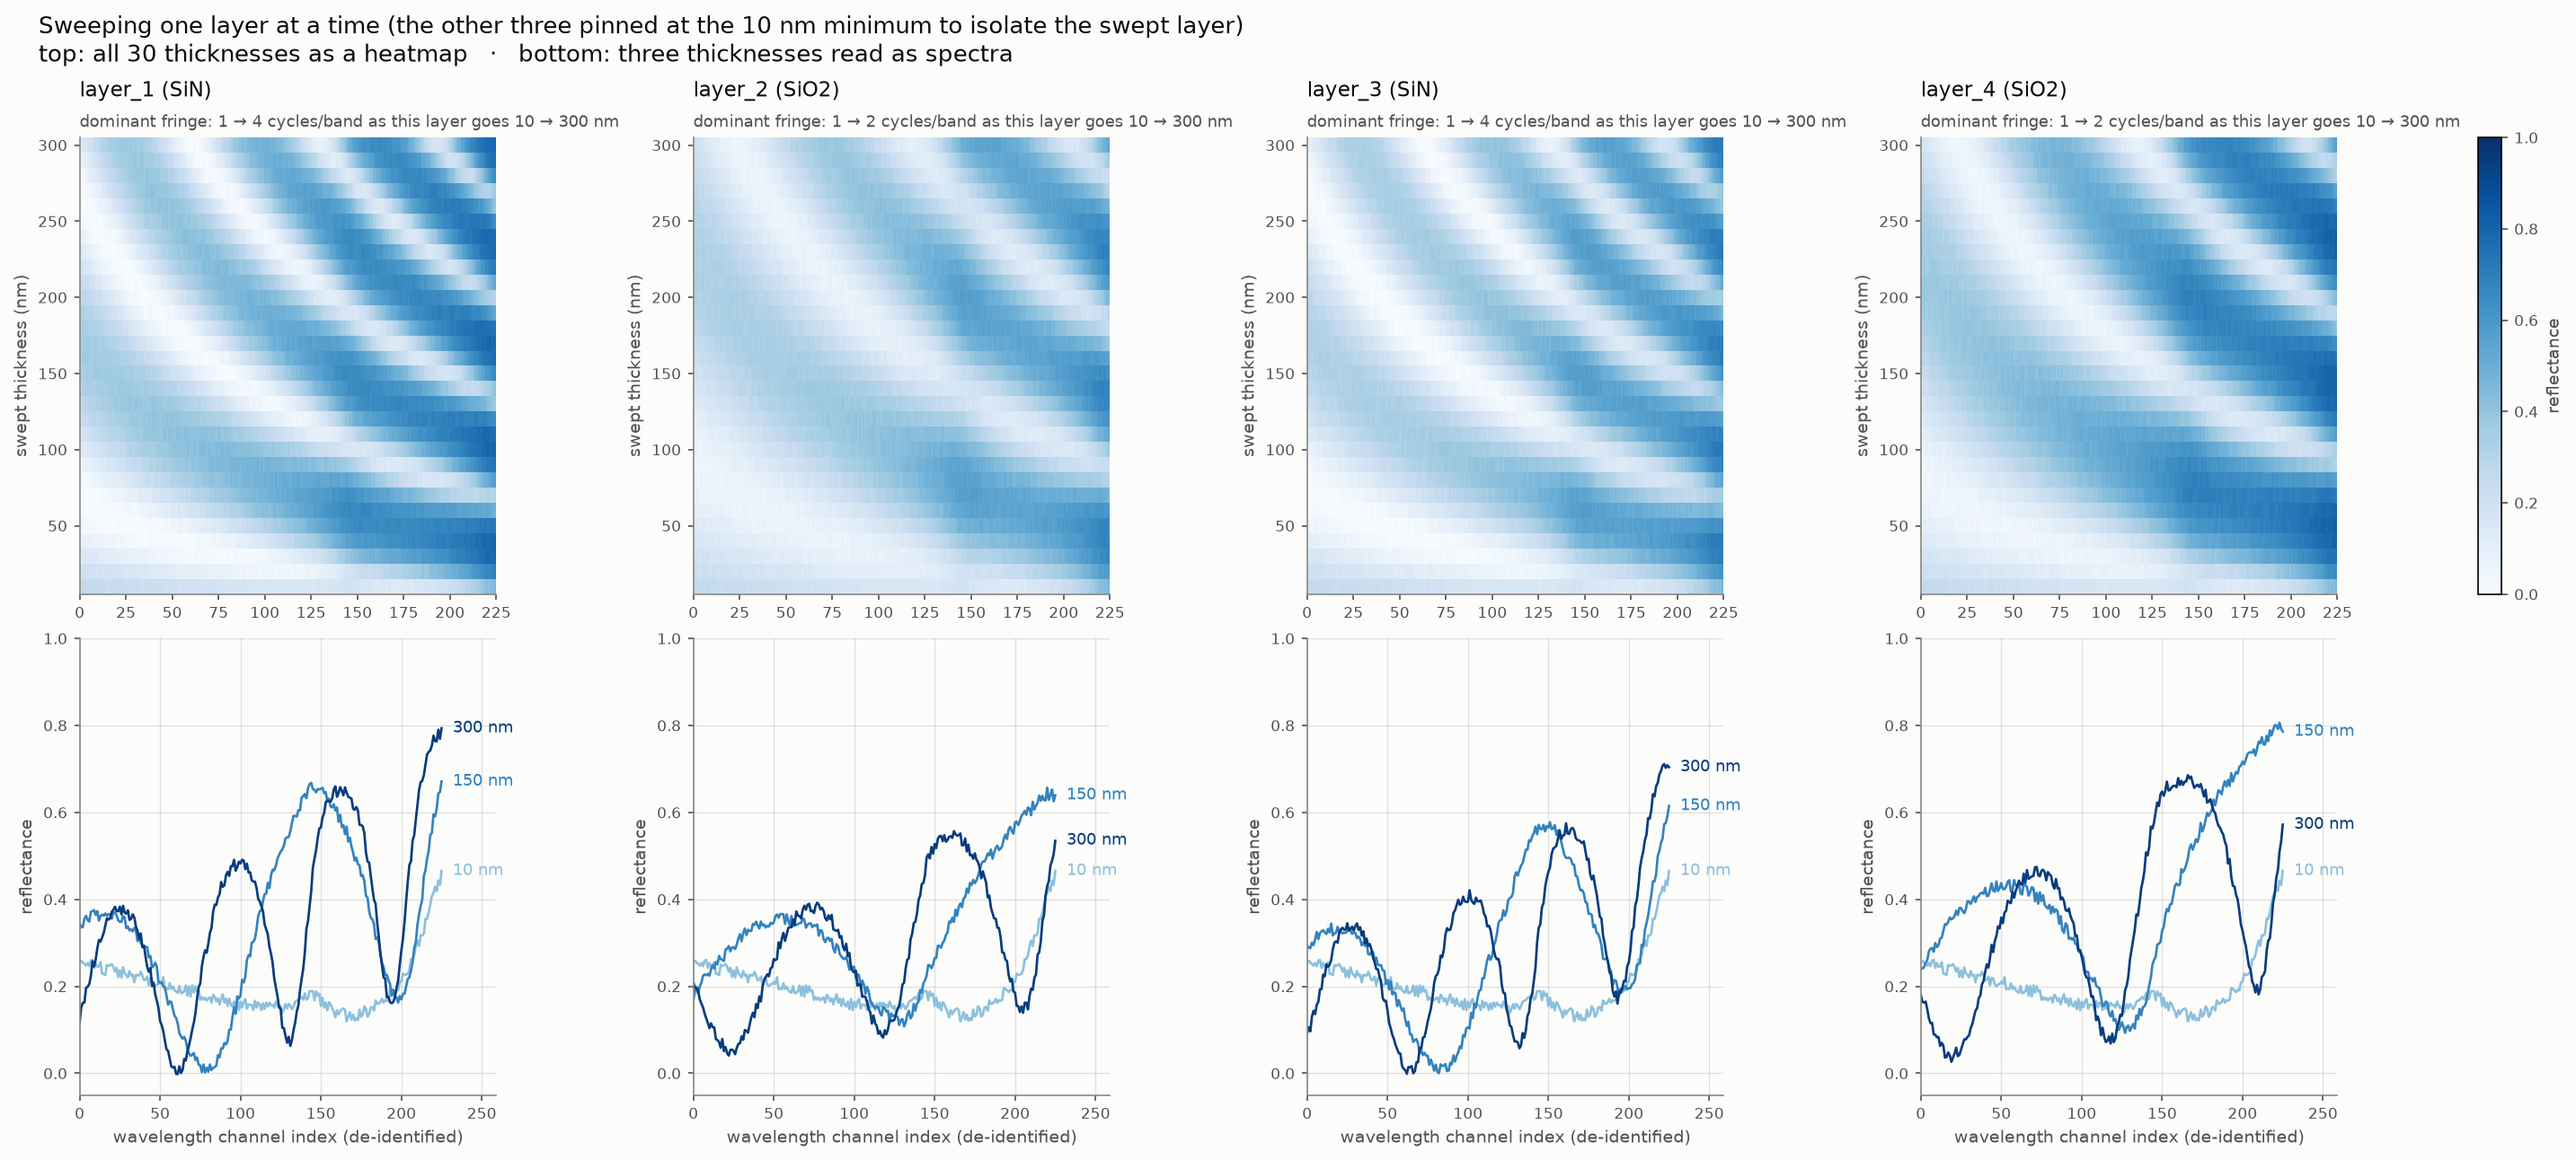
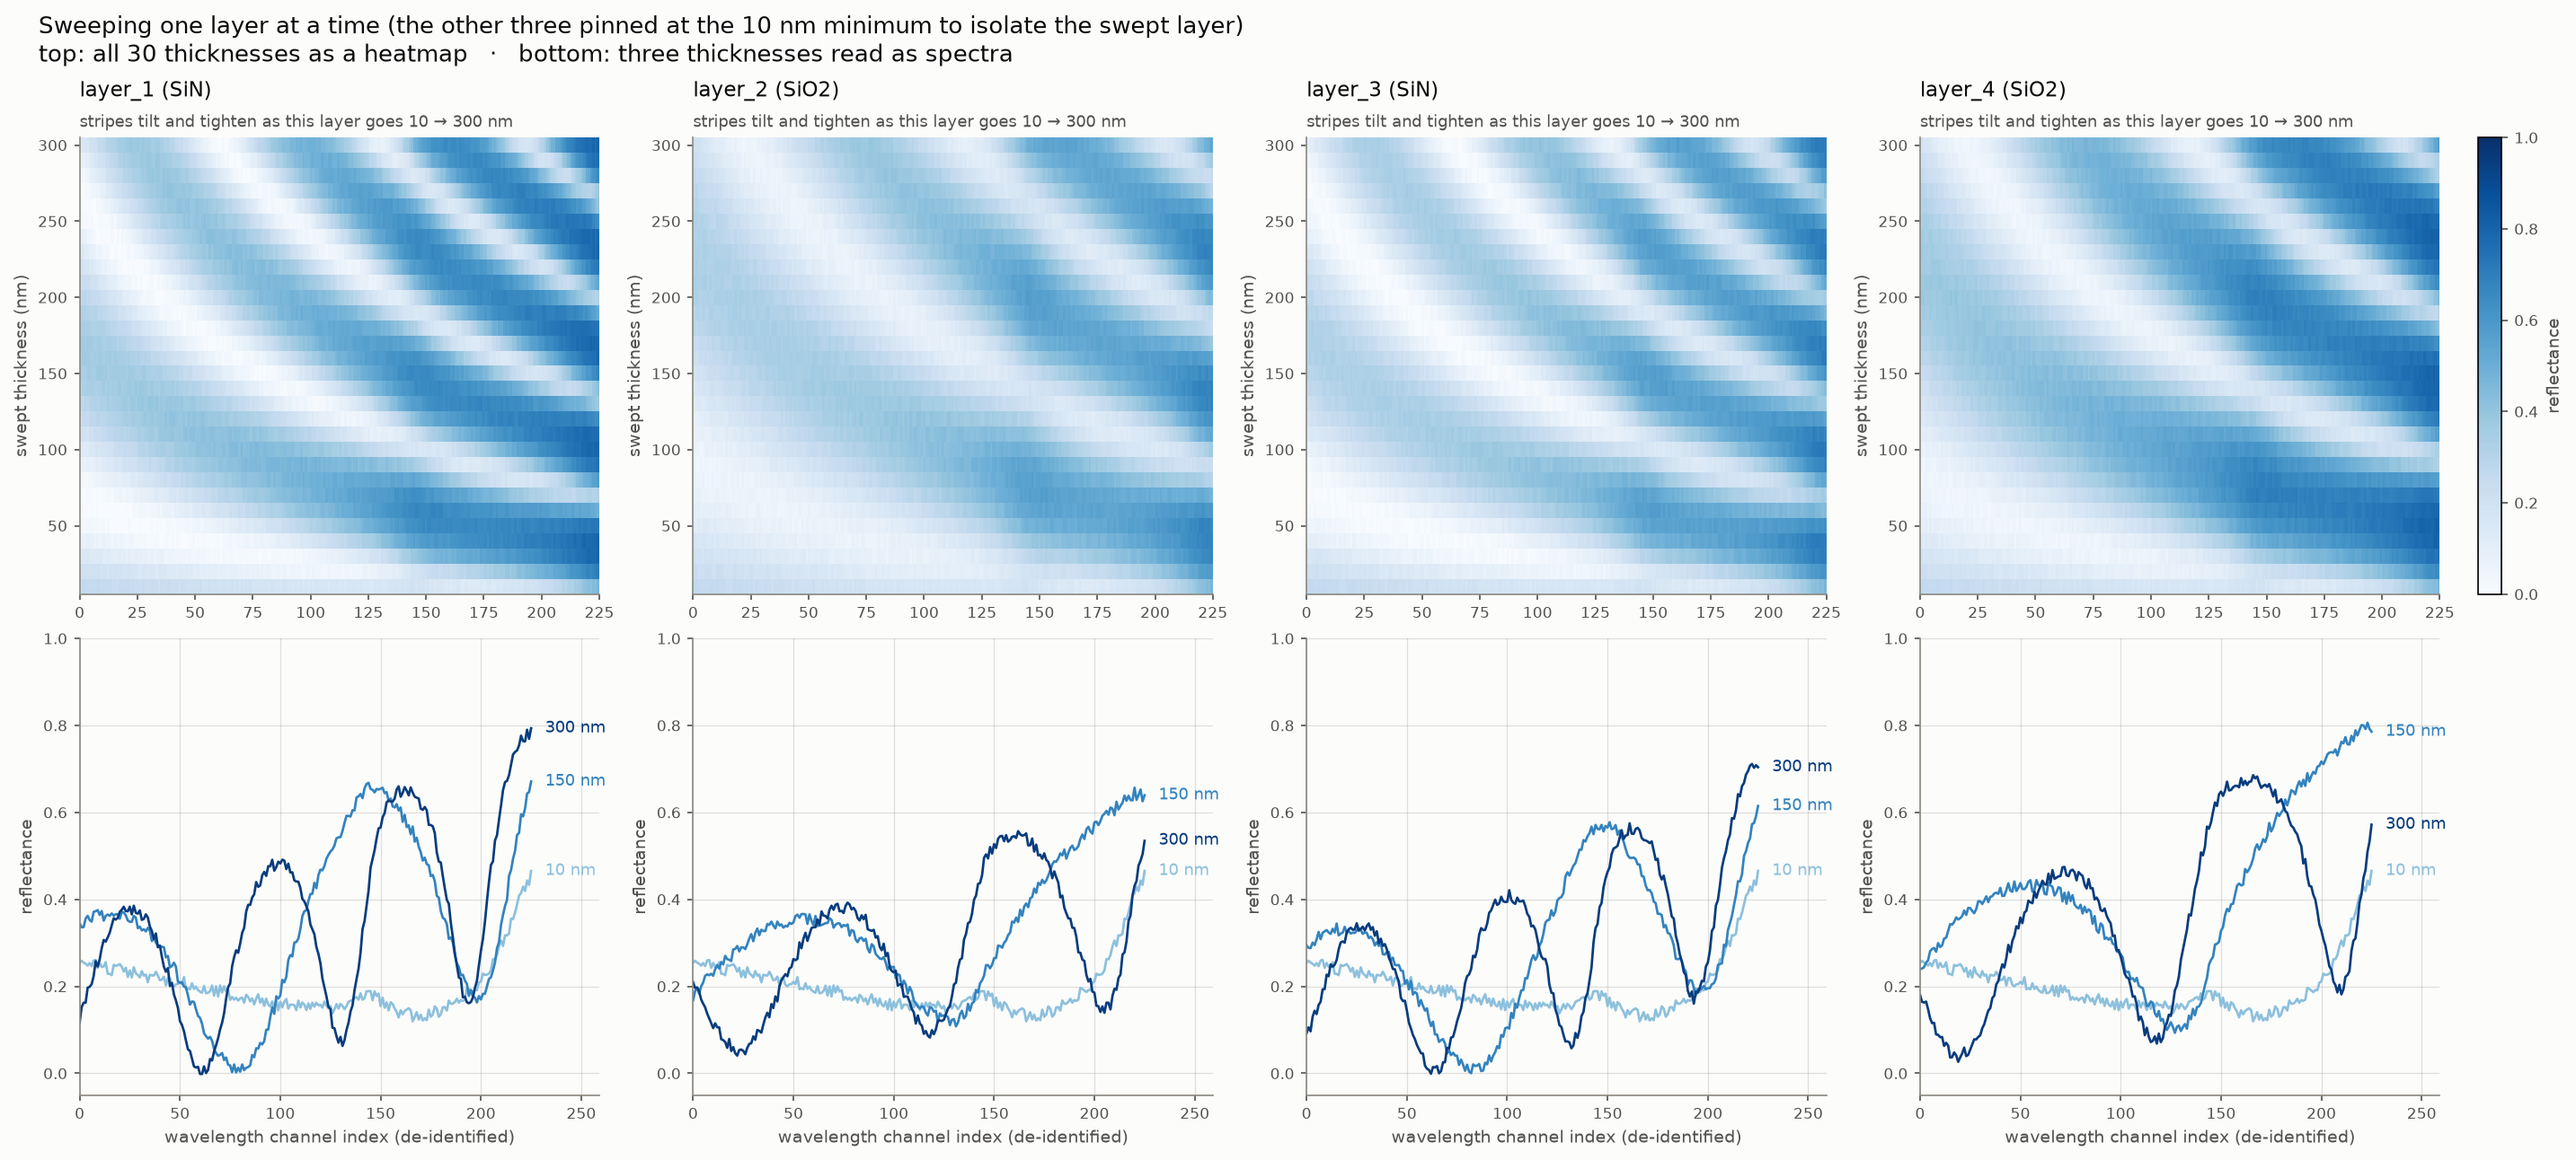
refactor: FFT 기반 분석을 전부 제거
scripts/eda.py 에서 np.fft 를 쓰는 코드와 그로부터 나온 수치·서술을 모두 뺐다.

제거 대상:
- figure_layer_sweep 의 지배 주파수 계산과 layer_N_freq_thin/thick 지표
  (fig1 패널 부제목도 정성 서술로 교체)
- measure_fringe_periods() 함수 전체와 fringe_period / fringe_cycles 지표
- eda_metrics.md 의 "fringe 조밀도" / "fringe 주기 분포" 표 두 개
- eda_notes.md §1 의 무늬 개수 표와 지표 비교 서술, §4(주기 분포) 전체
- CLAUDE.md 의 fringe 주기 분포 항목, SiN:SiO2 무늬 개수 비 항목
- README §2.3 의 해당 표 행 두 개와 지표 3종 언급

두께↑ → fringe 조밀은 fig1 히트맵의 정성 확인으로만 남긴다. SiN 이 SiO2 보다
무늬가 촘촘하다는 것도 굴절률 방향성 확인용 정성 서술로 유지.

주의 — Level 1 "다중 스케일 수용영역"의 정량 근거(주기 p95 = 226채널)가 함께
사라졌다. CLAUDE.md 모델 스펙의 다중 스케일 문구는 원래 있던 설계 지침이라
그대로 두었으나, 지금은 수치 근거 없이 정성 판단에 기대고 있다.

DoD: pytest 15 passed, ruff clean, 그림 3종 재생성.

diff --git a/scripts/eda.py b/scripts/eda.py
@@ -130,8 +130,8 @@ def figure_layer_sweep(x: np.ndarray, index: GridIndex) -> dict[str, float]:
     스펙트럼 모양 자체를 읽을 수 있게 한다.
 
     나머지 세 층은 **최소값 10 nm**에 고정한다. 150 nm에 두면 고정 층들이 만드는 fringe가
-    스펙트럼을 지배해서 쓸린 층의 기여가 묻히고, 지배 주파수 지표가 두께에 반응하지 않는다.
-    최소값으로 눌러야 "이 층 하나가 무늬를 얼마나 조밀하게 만드는가"가 분리되어 보인다.
+    스펙트럼을 지배해서 쓸린 층의 기여가 묻힌다. 최소값으로 눌러야 "이 층 하나가 무늬를
+    얼마나 조밀하게 만드는가"가 분리되어 보인다.
     """
     base = 0  # 격자 인덱스 0 = 10 nm (나머지 층을 최소로 눌러 쓸린 층을 분리)
     cmap = plt.get_cmap("Blues")  # 단일 색상 계열, 밝음->어두움 (순차 = 크기)
@@ -147,20 +147,6 @@ def figure_layer_sweep(x: np.ndarray, index: GridIndex) -> dict[str, float]:
         idx = np.full((N_GRID, 4), base, dtype=np.int64)
         idx[:, layer] = np.arange(N_GRID)
         spectra = x[index.rows(idx)]
-
-        # fringe 조밀도: 채널축 FFT의 지배 주파수 (DC 제외).
-        #
-        # 주의 — "두께에 선형" 같은 정량 법칙은 이 데이터에서 깨끗하게 안 나온다.
-        # 파장축이 비식별화되어 있어 채널 간격이 균일한지 알 수 없고, 대역이 좁아
-        # 무늬가 겨우 2~7개만 들어가며(FFT bin 해상도가 그만큼 거칠다), 네 층이 겹쳐
-        # 만든 beat까지 섞인다. 게다가 모든 층이 10 nm면 스펙트럼 진폭이 노이즈 수준으로
-        # 내려가 극값·무게중심 지표가 노이즈를 센다. 그래서 여기서는 thin/thick 두 끝의
-        # 지배 주파수만 사실로 보고하고, 기울기·R² 같은 법칙 주장은 하지 않는다.
-        centered = spectra - spectra.mean(axis=1, keepdims=True)
-        power = np.abs(np.fft.rfft(centered, axis=1)) ** 2
-        dominant = np.argmax(power[:, 1:], axis=1) + 1
-        metrics[f"layer_{layer + 1}_freq_thin"] = float(dominant[0])
-        metrics[f"layer_{layer + 1}_freq_thick"] = float(dominant[-1])
 
         ax_top = axes[0, layer]
         images.append(
@@ -180,8 +166,7 @@ def figure_layer_sweep(x: np.ndarray, index: GridIndex) -> dict[str, float]:
         _title(
             ax_top,
             LAYER_LABELS[layer],
-            f"dominant fringe: {dominant[0]:.0f} → {dominant[-1]:.0f} cycles/band "
-            f"as this layer goes 10 → 300 nm",
+            "stripes tilt and tighten as this layer goes 10 → 300 nm",
         )
         ax_top.set_ylabel("swept thickness (nm)", fontsize=9, color=INK_SECONDARY)
 
@@ -328,29 +313,6 @@ def figure_layer_sensitivity(
     )
     plt.close(fig)
     return metrics
-
-
-def measure_fringe_periods(x: np.ndarray, n_sample: int = 20_000) -> dict[str, float]:
-    """실제 데이터 분포에서 지배 fringe 주기(채널 단위)의 분포를 잰다.
-
-    이 값이 Level 1의 1D conv 수용영역을 규정한다 — 커널이 커버해야 하는 주기 대역이
-    곧 여기서 나오는 p5..p95 구간이다. fig1처럼 한 층만 쓴 인공 조합이 아니라
-    학습셋에서 무작위 표집해 실제 분포를 본다.
-    """
-    rng = np.random.default_rng(SEED)
-    sample = x[rng.choice(len(x), size=n_sample, replace=False)]
-    centered = sample - sample.mean(axis=1, keepdims=True)
-    power = np.abs(np.fft.rfft(centered, axis=1)) ** 2
-    dominant = np.argmax(power[:, 1:], axis=1) + 1  # cycles across the 226-channel band
-    periods = N_CHANNELS / dominant  # 채널 단위 주기
-    p5, p50, p95 = np.percentile(periods, [5, 50, 95])
-    return {
-        "fringe_cycles_p5": float(np.percentile(dominant, 5)),
-        "fringe_cycles_p95": float(np.percentile(dominant, 95)),
-        "fringe_period_p5": float(p5),
-        "fringe_period_p50": float(p50),
-        "fringe_period_p95": float(p95),
-    }
 
 
 def _noise_line(ax: plt.Axes) -> None:
@@ -523,41 +485,6 @@ def write_metrics(metrics: dict[str, float]) -> None:
 
     lines += [
         "",
-        "## fringe 조밀도 — 한 층만 쓸었을 때 (나머지 세 층은 10 nm)",
-        "",
-        "채널축 FFT의 지배 주파수. **정량 법칙(기울기·R²)은 주장하지 않는다** — 파장축이",
-        "비식별화되어 채널 간격의 균일성을 알 수 없고, 대역에 무늬가 2~7개만 들어가",
-        "FFT bin 해상도가 거칠며, 네 층의 beat가 섞이기 때문이다. 아래는 두 끝값 사실만.",
-        "",
-        "| 층 | 10 nm | 300 nm |",
-        "|---|---|---|",
-    ]
-    for layer in range(1, 5):
-        lines.append(
-            f"| {LAYER_LABELS[layer - 1]} "
-            f"| {metrics[f'layer_{layer}_freq_thin']:.0f} cycles "
-            f"| {metrics[f'layer_{layer}_freq_thick']:.0f} cycles |"
-        )
-
-    lines += [
-        "",
-        "## fringe 주기 분포 (학습셋 20,000행 무작위 표집) — 1D conv 수용영역 요건",
-        "",
-        "| 항목 | 값 |",
-        "|---|---|",
-        f"| 지배 주파수 p5 → p95 | {metrics['fringe_cycles_p5']:.0f} → "
-        f"{metrics['fringe_cycles_p95']:.0f} cycles / 226채널 |",
-        f"| 지배 주기 p5 | {metrics['fringe_period_p5']:.1f} 채널 |",
-        f"| 지배 주기 중앙값 | {metrics['fringe_period_p50']:.1f} 채널 |",
-        f"| 지배 주기 p95 | {metrics['fringe_period_p95']:.1f} 채널 |",
-        "",
-        "→ 커널·dilation 조합이 대략 "
-        f"{metrics['fringe_period_p5']:.0f}~{metrics['fringe_period_p95']:.0f} 채널 "
-        "주기를 모두 커버해야 한다.",
-    ]
-
-    lines += [
-        "",
         "## 반사율 분포",
         "",
         "| 항목 | 값 |",
@@ -602,8 +529,6 @@ def main() -> int:
     metrics |= figure_layer_sensitivity(x, index)
     print("fig3 — 반사율 분포...")
     metrics |= figure_reflectance_distribution(x)
-    print("fringe 주기 분포 측정...")
-    metrics |= measure_fringe_periods(x)
 
     write_metrics(metrics)
 
@@ -622,10 +547,6 @@ def main() -> int:
     print(
         f"초과 첨도: 전체 {metrics['residual_excess_kurtosis']:+.3f} / "
         f"평평한 행 {metrics['residual_excess_kurtosis_flat']:+.3f}  (균등 −0.6 / 가우시안 0)"
-    )
-    print(
-        f"fringe 주기 p5/중앙/p95 = {metrics['fringe_period_p5']:.1f} / "
-        f"{metrics['fringe_period_p50']:.1f} / {metrics['fringe_period_p95']:.1f} 채널"
     )
     return 0
 

diff --git a/CLAUDE.md b/CLAUDE.md
@@ -87,20 +87,18 @@ T = 4 * n0 * Re(n_s) / |n0*B + C|^2        # 무흡수 층 가정 시 R + T = 1
   layer_3 0.1329/**15.3**, layer_4 0.1025/11.8.
   → 최소 SNR 10.3. **원리적 사각지대 없음.** 층별 MAE 격차는 관측 한계가 아니라 모델 문제로 해석한다.
   layer_4는 40~60 nm에서 민감도가 0.076까지 꺼지는 국소 최소가 있다(구간별 오차 분석 시 확인).
-- **fringe 주기 분포** (지배 주기, 채널 단위): p5 28.2 / 중앙 56.5 / p95 226.0.
-  → **1D CNN 수용영역이 28채널 주기부터 대역 전체(226)까지 커버해야 한다.**
-  작은 커널만 쌓으면 부족 — dilated conv 또는 커널 혼합이 필수이고, GAP 직전 유효
-  수용영역이 226에 도달하는지 확인할 것. 이것이 "다중 스케일"의 정량 요건이다.
 - **채널별 정보량 불균등**: mean |ΔR|이 채널 0~9 대비 216~225에서 약 **3배**(2.86~3.10×).
   노이즈는 채널에 균일 → 대역 오른쪽 끝 SNR이 3배 좋다. 채널 자르기·downsample 주의.
   물리 손실의 채널 가중은 ablation 후보(기본은 균등 가중).
-- **SiN:SiO₂ 무늬 개수 비 ≈ 2** (300 nm에서 4 vs 2 cycles). 문헌 굴절률 비는 1.37.
-  → Stage A 캘리브레이션이 굴절률을 제대로 찾으면 이 비가 정량 재현되어야 한다. sanity check로 쓸 것.
+- **두께↑ → fringe 조밀** (정성 확인, fig1 히트맵). 같은 두께에서 SiN 층이 SiO₂ 층보다
+  무늬가 촘촘하다 — 굴절률이 크면 광경로차 2·n·d가 커진다는 예상과 방향 일치
+  (문헌 n(SiN) ≈ 2.0 vs n(SiO₂) ≈ 1.46). Stage A 캘리브레이션의 방향성 확인에 쓸 것.
 - 죽은 채널 없음(채널별 표준편차 0.1816~0.2124로 고르다). 최대 R = 0.944로 **위쪽 절단 없음**.
-- **하지 말 것**: "무늬 개수 ∝ 두께"를 R² 같은 정량 법칙으로 주장하기. 지표 3종을 시도했으나
-  파장축 비식별화(채널 간격 불명) + 대역에 무늬 1~8개뿐 + 4층 beat + 노이즈 때문에
-  신뢰할 수준이 안 나온다. 특히 네 층 모두 10 nm면 스펙트럼이 거의 평평해 극값 세기
-  지표는 노이즈를 세고 **부호가 반대로** 나온다.
+- **하지 말 것**: 무늬 개수를 세어 "두께에 비례한다"는 식의 정량 법칙을 주장하기.
+  파장축 비식별화(채널 간격이 파장에서 균일한지 불명) + 대역에 들어가는 무늬 수가 적음
+  + 4층 beat + 노이즈 때문에 신뢰할 수준이 안 나온다. 특히 네 층 모두 10 nm면 스펙트럼이
+  거의 평평해(진폭 ≈ 노이즈) 무늬를 세는 지표는 노이즈를 세고 **부호가 반대로** 나온다.
+  두께↑ → fringe 조밀은 **정성 확인까지만** 한다.
 
 ## 코딩 규약
 

diff --git a/README.md b/README.md
@@ -95,18 +95,16 @@ inductive bias로 결합한 딥러닝으로 푼다.
 
 | 관찰 | 수치 | 설계에 미치는 영향 |
 |---|---|---|
-| 두께↑ → fringe 조밀 | SiN은 300 nm에서 4 cycles/대역, SiO₂는 2 | 굴절률 비(문헌 1.37)와 방향 일치 → Stage A 캘리브레이션 sanity check |
+| 두께↑ → fringe 조밀 | 정성 확인 (fig1 히트맵). SiN이 SiO₂보다 촘촘 | 굴절률 비(문헌 2.0 vs 1.46)와 방향 일치 → Stage A 캘리브레이션 방향성 확인 |
 | 층별 민감도 (+10 nm) | SNR 10.3(layer_2) ~ 15.3(layer_3) | 최소 10.3 → **원리적 사각지대 없음.** 층별 MAE 격차는 모델 문제로 해석 |
-| fringe 주기 분포 | p5 28 / 중앙 57 / p95 **226** 채널 | 1D CNN 수용영역이 **대역 전체**에 도달해야 함 → 다중 스케일의 정량 요건 |
 | 채널별 정보량 | 대역 오른쪽 끝이 왼쪽의 **약 3배** | 채널 자르기 주의, 물리 손실 채널 가중은 ablation 후보 |
 | 노이즈 성격 | 초과 첨도 −0.328 (전체) → **−0.519** (곡률 적은 행) / 균등 −0.6, 가우시안 0 | 강건성 실험 노이즈 모델을 균등분포로 |
 
-정량 법칙에 대한 유보: "무늬 개수 ∝ 두께"를 R²로 못박으려 지표 3종(FFT argmax /
-파워 무게중심 / 극값 개수)을 시도했으나 신뢰할 수준이 나오지 않았다. 파장축이
-비식별화되어 채널 간격의 균일성을 알 수 없고, 대역에 무늬가 1~8개만 들어가며,
-네 층의 beat와 노이즈가 섞이기 때문이다. 특히 네 층이 모두 10 nm면 스펙트럼 진폭이
-노이즈 수준으로 내려가 극값 세기 지표가 **부호가 반대로** 나왔다. 따라서 정성 확인과
-두 끝값만 보고하고 기울기·R²는 리포트에서 제외했다.
+정량 법칙에 대한 유보: 무늬 개수를 세어 "두께에 비례한다"는 식의 정량 법칙은
+주장하지 않는다. 파장축이 비식별화되어 채널 간격이 파장에서 균일한지 알 수 없고,
+대역에 들어가는 무늬 수가 적으며, 네 층의 beat와 노이즈가 섞이기 때문이다. 특히
+네 층이 모두 10 nm면 스펙트럼 진폭이 노이즈 수준으로 내려가 무늬를 세는 지표가
+**부호가 반대로** 나온다. 따라서 두께↑ → fringe 조밀은 정성 확인까지만 보고한다.
 
 **다운로드:** 대회 페이지에서 규정 동의 후 내려받아 `data/raw/`에 배치한다.
 대회 규정상 데이터는 이 저장소에 포함하지 않는다(`.gitignore` 처리).

diff --git a/reports/eda_metrics.md b/reports/eda_metrics.md
@@ -13,30 +13,6 @@
 | layer_3 (SiN) | 0.13291 | 15.28 | 0.0468 | 0.1451 | 3.10× |
 | layer_4 (SiO2) | 0.10250 | 11.78 | 0.0372 | 0.1120 | 3.01× |
 
-## fringe 조밀도 — 한 층만 쓸었을 때 (나머지 세 층은 10 nm)
-
-채널축 FFT의 지배 주파수. **정량 법칙(기울기·R²)은 주장하지 않는다** — 파장축이
-비식별화되어 채널 간격의 균일성을 알 수 없고, 대역에 무늬가 2~7개만 들어가
-FFT bin 해상도가 거칠며, 네 층의 beat가 섞이기 때문이다. 아래는 두 끝값 사실만.
-
-| 층 | 10 nm | 300 nm |
-|---|---|---|
-| layer_1 (SiN) | 1 cycles | 4 cycles |
-| layer_2 (SiO2) | 1 cycles | 2 cycles |
-| layer_3 (SiN) | 1 cycles | 4 cycles |
-| layer_4 (SiO2) | 1 cycles | 2 cycles |
-
-## fringe 주기 분포 (학습셋 20,000행 무작위 표집) — 1D conv 수용영역 요건
-
-| 항목 | 값 |
-|---|---|
-| 지배 주파수 p5 → p95 | 1 → 8 cycles / 226채널 |
-| 지배 주기 p5 | 28.2 채널 |
-| 지배 주기 중앙값 | 56.5 채널 |
-| 지배 주기 p95 | 226.0 채널 |
-
-→ 커널·dilation 조합이 대략 28~226 채널 주기를 모두 커버해야 한다.
-
 ## 반사율 분포
 
 | 항목 | 값 |
